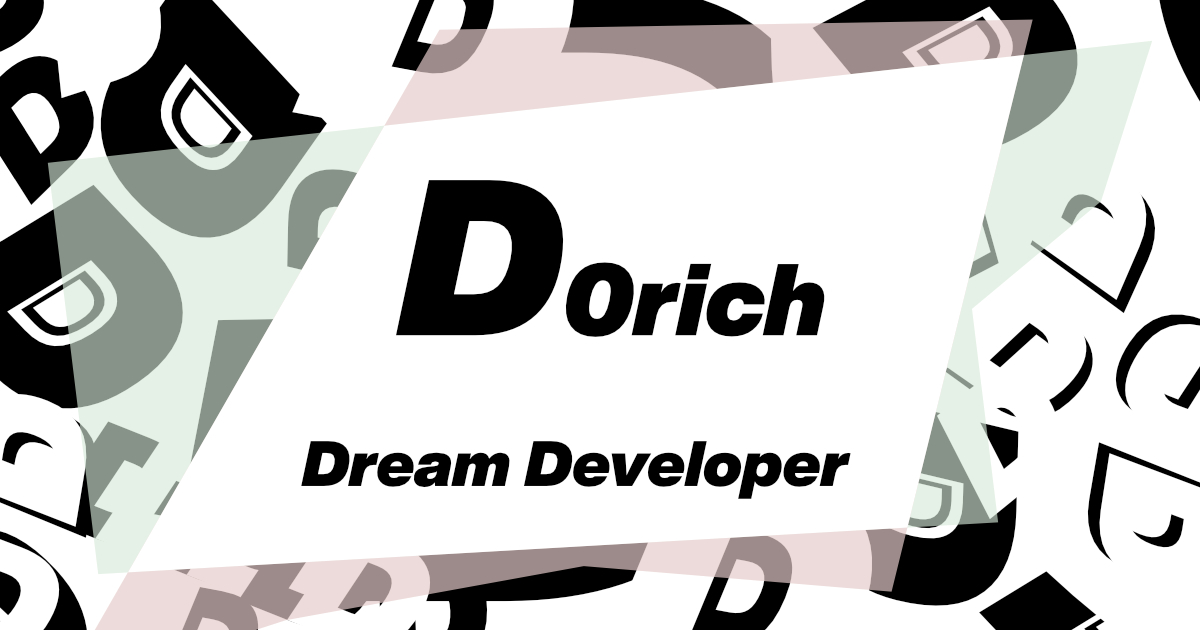
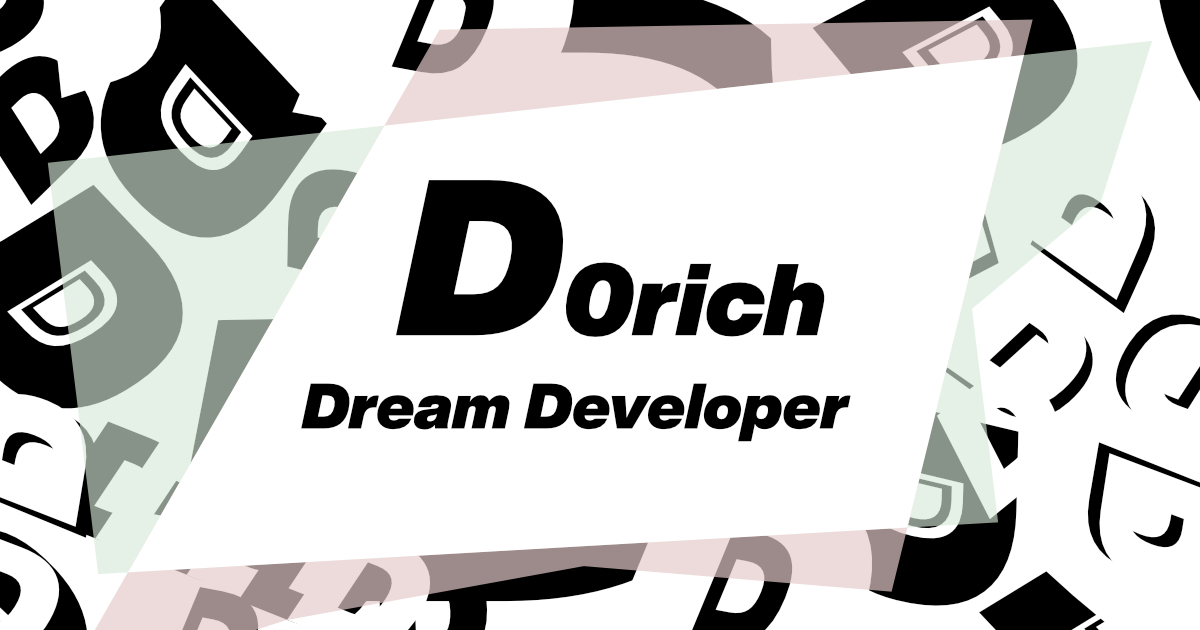
Open Graph Hotfix (#26)
* [resume] useSeoMeta directly in setup script

* [resume] Use inbuilt Seo components

* Seo meta as component

* Turn off prettier end of line

* Apply  meta tags with async safe component

* Update og image

Changed region(s): [[0.2467, 0.6032, 0.7092, 0.7841]]

diff --git a/pages/blog/[...slug].vue b/pages/blog/[...slug].vue
@@ -3,11 +3,6 @@ const { data: doc } = useAsyncData(useRoute().path, () =>
   queryContent(useRoute().path).findOne()
 )
 
-useSeoCommon({
-  title: computed(() => doc.value?.title),
-  description: computed(() => doc.value?.description)
-})
-
 const { itemsOnPage } = getBlogPostsNavConfig()
 const filterObject = getBlogPostsFilterObject()
 
@@ -37,19 +32,15 @@ const linkToBlog = computed(() => {
 </script>
 
 <template>
-  <div class="pb-[50vh] pt-10">
-    <div v-if="doc" class="blog-article">
+  <div v-if="doc" class="pb-[50vh] pt-10">
+    <AsyncSafeSeoWithOg :title="doc.title" :description="doc.description" />
+    <div class="blog-article">
       <nav>
         <DBigBangButton text="< Back" :to="linkToBlog" />
       </nav>
       <time v-if="doc.date">{{ dateToDayMonthYear(doc.date) }}</time>
     </div>
-    <ContentRenderer
-      v-if="doc"
-      :value="doc"
-      tag="article"
-      class="blog-article"
-    />
+    <ContentRenderer :value="doc" tag="article" class="blog-article" />
   </div>
 </template>
 

diff --git a/pages/index.vue b/pages/index.vue
@@ -4,10 +4,6 @@ import { CharacterPose } from '~~/components/d/Character.vue'
 import { MaskType } from '~~/components/d/Mask.vue'
 import { ActionFanItem } from '~~/components/d/actions/Fan.vue'
 
-useSeoCommon({
-  ogTitle: 'Homepage'
-})
-
 const currentPose = ref<CharacterPose>('idle')
 const { introNodeRefs } = useIntroBlockAnimation()
 const { sectionsNodeRefs, currentSection } = useSectionsDescriptionAnimation()
@@ -61,6 +57,7 @@ const { data } = useAsyncData('homepage', async () => {
 
 <template>
   <div v-if="data" class="-mt-20">
+    <AsyncSafeSeoWithOg og-title="Homepage" />
     <!-- Intro block -->
     <section
       :ref="(el) => { introNodeRefs.section.value = el as Element }"

diff --git a/pages/resume/[type].vue b/pages/resume/[type].vue
@@ -1,4 +1,5 @@
 <script setup lang="ts">
+import AsyncSafeSeoWithOg from '~~/components/AsyncSafeSeoWithOg.vue'
 import { ResumeData } from '~~/server/routes/api/resume/data'
 
 definePageMeta({
@@ -29,15 +30,15 @@ const { data: resumeList } = useAsyncData(
       })
   }
 )
-
-useSeoCommon({
-  title: computed(() => `Resume: ${data.value?.lead.title}`),
-  description: computed(() => data.value?.lead.description)
-})
 </script>
 
 <template>
   <div>
+    <AsyncSafeSeoWithOg
+      v-if="data"
+      :title="`Resume: ${data.lead.title}`"
+      :description="data.lead.description"
+    />
     <DevOnly>
       <div class="text-white bg-red-600 overflow-x-auto">
         <div>{{ error }}</div>

diff --git a/pages/blog/[page].vue b/pages/blog/[page].vue
@@ -2,10 +2,6 @@
 import { QueryBuilderParams } from '@nuxt/content/dist/runtime/types'
 import { BlogContent } from '@/components/blog/Tile.vue'
 
-useSeoCommon({
-  title: 'Blog'
-})
-
 definePageMeta({
   path: '/blog/:page(\\d+)?'
 })
@@ -44,6 +40,7 @@ const blogQuery: QueryBuilderParams = {
 
 <template>
   <div class="mb-96">
+    <AsyncSafeSeoWithOg title="Blog" />
     <div class="relative isolate px-3 max-w-3xl mx-auto my-10 overflow-hidden">
       <div class="max-w-lg">
         <h1 class="text-6xl sm:text-8xl font-serif mb-5 text-cyan-300">Blog</h1>

diff --git a/components/AsyncSafeSeoWithOg.vue b/components/AsyncSafeSeoWithOg.vue
@@ -1,0 +1,21 @@
+<script setup lang="ts">
+defineProps<{
+  title?: string
+  ogTitle?: string
+  description?: string
+  image?: string
+}>()
+</script>
+
+<template>
+  <Head>
+    <Title v-if="title">{{ title }}</Title>
+    <Meta
+      v-if="title || ogTitle"
+      property="og:title"
+      :content="ogTitle || title"
+    />
+    <Meta v-if="description" name="description" :content="description" />
+    <Meta v-if="description" property="og:description" :content="description" />
+  </Head>
+</template>

diff --git a/pages/projects.vue b/pages/projects.vue
@@ -1,11 +1,6 @@
-<script setup lang="ts">
-useSeoCommon({
-  title: 'Projects'
-})
-</script>
-
 <template>
   <div>
+    <AsyncSafeSeoWithOg title="Projects" />
     <div class="relative isolate px-3 max-w-3xl mx-auto my-10 overflow-hidden">
       <div class="max-w-lg">
         <h1 class="text-6xl sm:text-8xl font-serif mb-5 text-red-300">

diff --git a/pages/[...slug].vue b/pages/[...slug].vue
@@ -1,11 +1,6 @@
-<script setup lang="ts">
-useSeoCommon({
-  title: 'Error 404'
-})
-</script>
-
 <template>
   <div class="mt-10 md:mt-20 px-3">
+    <AsyncSafeSeoWithOg title="Error 404" />
     <section class="flex justify-evenly items-center flex-wrap gap-4">
       <DCharacter
         class="w-[clamp(300px,_50%,_430px)]"
